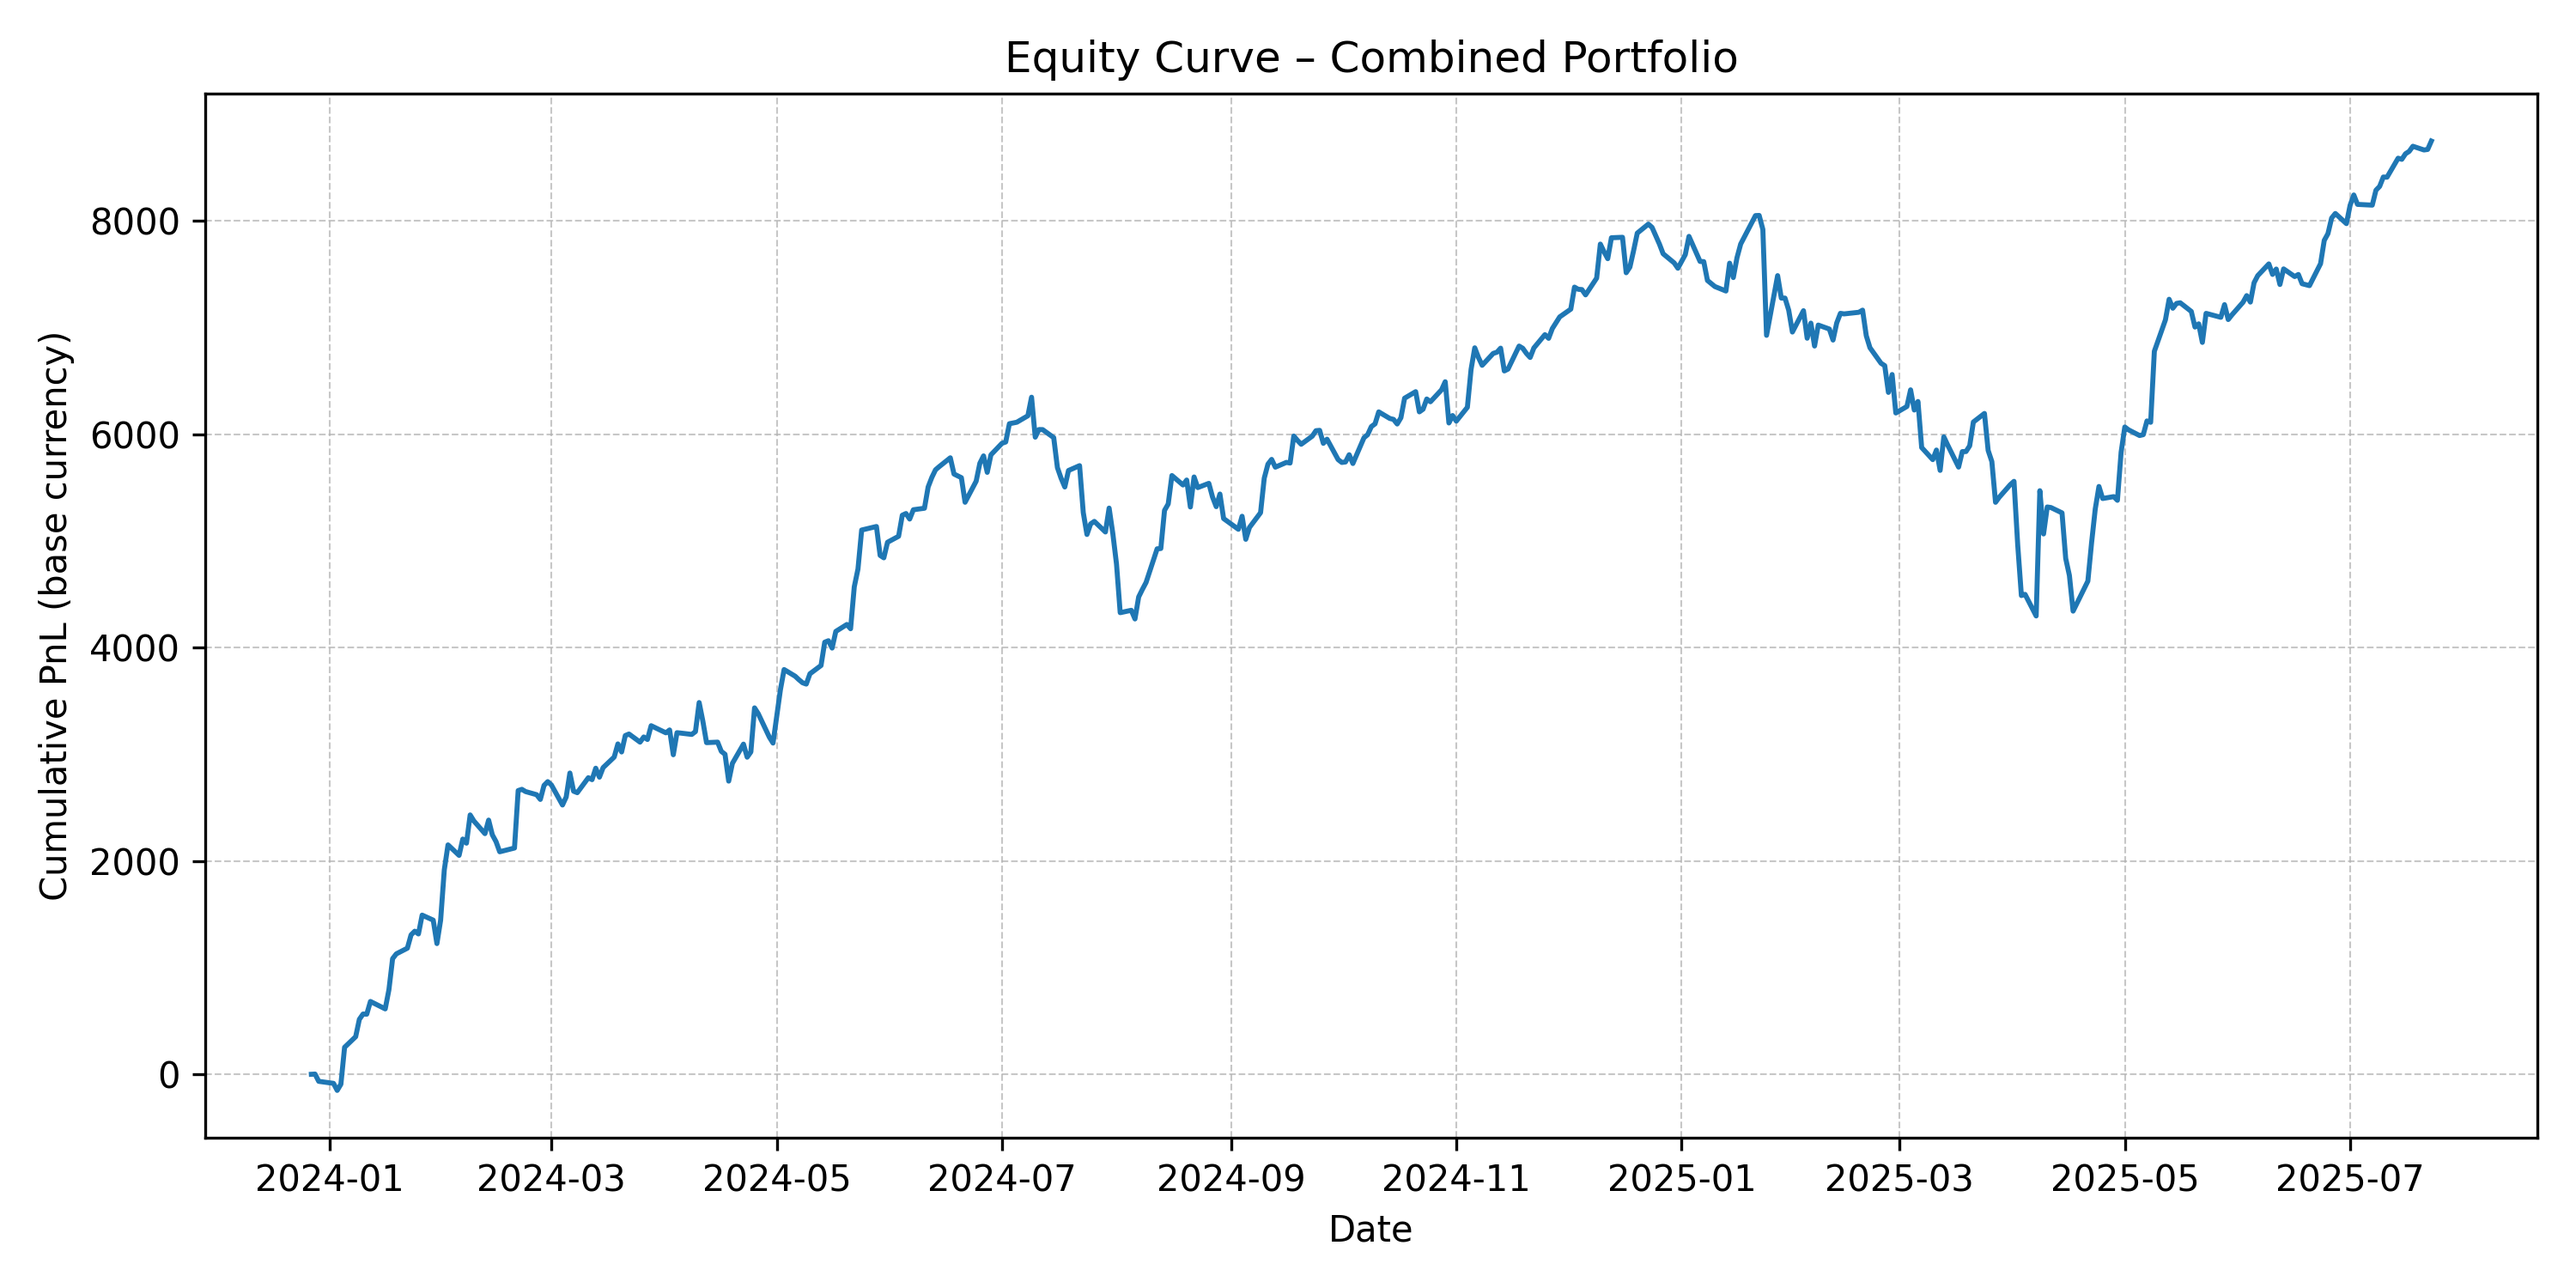
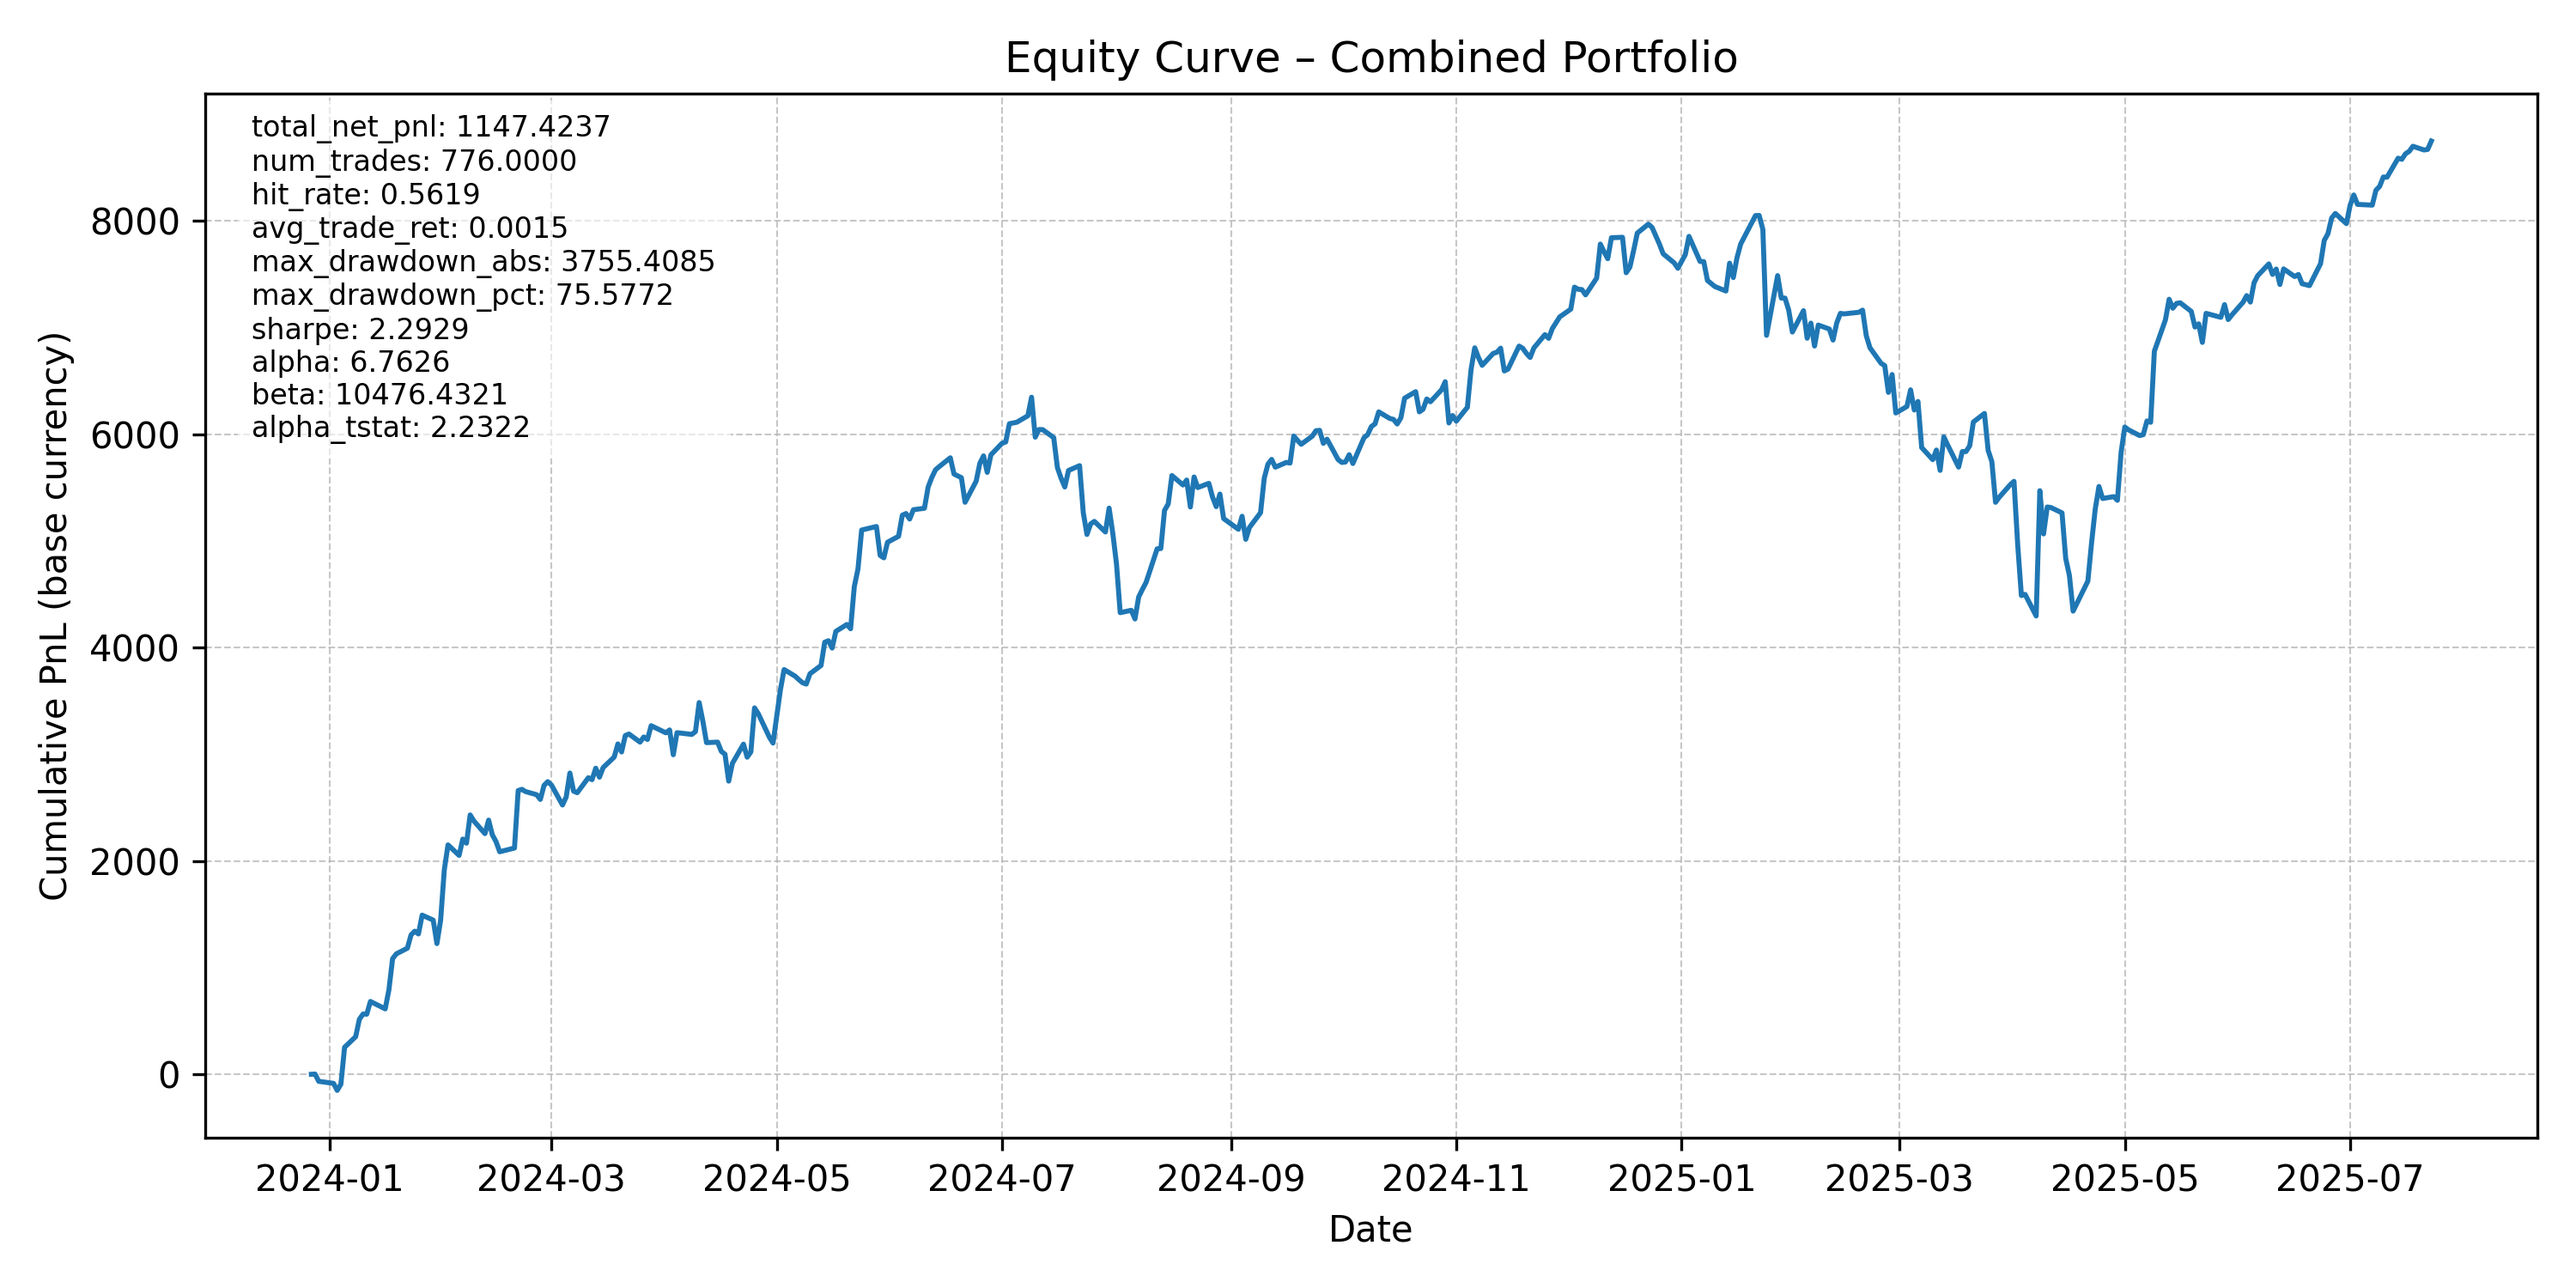
Incorporated and added alpha and beta

Changed region(s): [[0.093, 0.092, 0.279, 0.3373]]

diff --git a/Equity_Factor_Alpha/src/backtest.py b/Equity_Factor_Alpha/src/backtest.py
@@ -37,7 +37,7 @@ import pandas as pd
 import numpy as np
 
 from .config import cfg
-from .metrics import sharpe_ratio, max_drawdown
+from .metrics import sharpe_ratio, max_drawdown, compute_alpha
 
 __all__ = ["run_backtest"]
 
@@ -54,6 +54,8 @@ def run_backtest(
     predictions: pd.Series,
     returns: pd.Series,
     *,
+    benchmark_returns: pd.Series | None = None,
+    risk_free_rate: float | None = None,
     hold_days: int | None = None,
     top_n: int | None = None,
     fee_bps: float | None = None,
@@ -86,6 +88,15 @@ def run_backtest(
         of this as the unit trade size; if ``top_n=2`` you deploy
         ``2×notional`` on day one, then more as positions overlap.
 
+    benchmark_returns : pd.Series, optional
+        Benchmark returns aligned to ``returns``.  If provided, the
+        function computes Jensen’s α, β and the α t‑statistic.
+
+    risk_free_rate : float, optional
+        Per‑period (e.g. daily) risk‑free rate used when computing the
+        Sharpe ratio.  If omitted, defaults to ``backtest.risk_free_rate``
+        from ``params.yaml`` (falls back to 0.0).
+
     Returns
     -------
     dict with keys
@@ -104,6 +115,9 @@ def run_backtest(
     top_n = bt_cfg.get("top_n") if top_n is None else top_n
     fee_bps = bt_cfg.get("fee_bps") if fee_bps is None else fee_bps
     fee_rate = (fee_bps or 0) / 10_000
+    risk_free_rate = (
+        bt_cfg.get("risk_free_rate", 0.0) if risk_free_rate is None else risk_free_rate
+    )
 
     # Ensure predictions and returns align
     if not predictions.index.equals(returns.index):
@@ -169,19 +183,14 @@ def run_backtest(
 
     # Compile trade ledger into DataFrame
     trades_df = pd.DataFrame(trades)
-    if trades_df.empty:
-        metrics = {
-            "total_net_pnl": 0.0,
-            "num_trades": 0,
-            "hit_rate": np.nan,
-            "avg_trade_ret": np.nan,
-            "max_drawdown_abs": 0.0,
-            "max_drawdown_pct": 0.0,
-            "sharpe": np.nan,
-        }
-    else:
+    alpha = beta = alpha_t = np.nan
+    if not trades_df.empty:
         dd_abs, dd_pct = max_drawdown(equity_series)
         equity_diff = equity_series.diff().fillna(0.0)
+        if benchmark_returns is not None:
+            # Align benchmark with portfolio return series
+            bench = benchmark_returns.reindex(equity_diff.index).fillna(0.0)
+            alpha, beta, alpha_t = compute_alpha(equity_diff, bench)
         metrics = {
             "total_net_pnl": trades_df["net_pnl"].sum(),
             "num_trades": len(trades_df),
@@ -189,7 +198,25 @@ def run_backtest(
             "avg_trade_ret": trades_df["gross_ret"].mean(),
             "max_drawdown_abs": float(dd_abs),
             "max_drawdown_pct": float(dd_pct),
-            "sharpe": sharpe_ratio(equity_diff),
+            "sharpe": sharpe_ratio(equity_diff, risk_free_rate=risk_free_rate),
+            "alpha": alpha,
+            "beta": beta,
+            "alpha_tstat": alpha_t,
+        }
+    else:
+        metrics = {
+            "total_net_pnl": 0.0,
+            "num_trades": 0,
+            "hit_rate": np.nan,
+            "avg_trade_ret": np.nan,
+            "max_drawdown_abs": 0.0,
+            "max_drawdown_pct": 0.0,
+            "sharpe": sharpe_ratio(
+                pd.Series(dtype=float), risk_free_rate=risk_free_rate
+            ),
+            "alpha": alpha,
+            "beta": beta,
+            "alpha_tstat": alpha_t,
         }
 
     return {"trades": trades_df, "equity": equity_series, "metrics": metrics}

diff --git a/Equity_Factor_Alpha/src/plotting.py b/Equity_Factor_Alpha/src/plotting.py
@@ -26,8 +26,9 @@ from typing import Any
 
 import pandas as pd
 import matplotlib.pyplot as plt
+import numpy as np
 
-__all__ = ["plot_equity"]
+__all__ = ["plot_equity", "plot_returns_vs_benchmark"]
 
 
 def _ensure_series(obj: pd.Series | pd.DataFrame) -> pd.Series:
@@ -49,6 +50,7 @@ def plot_equity(
     figsize: tuple[int, int] = (10, 5),
     show: bool = True,
     save_path: str | Path | None = None,
+    metrics: dict[str, float] | None = None,
 ) -> plt.Axes:
     """
     Plot an equity curve with sensible defaults.
@@ -68,6 +70,8 @@ def plot_equity(
     save_path
         If given, save the figure (filetype inferred from suffix).  PNG is
         recommended for light file sizes.
+    metrics
+        Optional dictionary of metric names and values to display on the plot.
 
     Returns
     -------
@@ -87,8 +91,78 @@ def plot_equity(
     ax.set_xlabel("Date")
     ax.set_ylabel("Cumulative PnL (base currency)")
     ax.grid(True, linestyle="--", linewidth=0.5, alpha=0.7)
+    if metrics is not None:
+        text = "\n".join(f"{k}: {v:.4f}" for k, v in metrics.items() if pd.notna(v))
+        ax.text(
+            0.02,
+            0.98,
+            text,
+            transform=ax.transAxes,
+            va="top",
+            ha="left",
+            fontsize=8,
+            bbox=dict(facecolor="white", alpha=0.6, edgecolor="none"),
+        )
     if created_fig:
         fig.tight_layout()
+    if save_path is not None:
+        Path(save_path).parent.mkdir(parents=True, exist_ok=True)
+        plt.savefig(save_path, dpi=300)
+    if show:
+        plt.show()
+    return ax
+
+
+def plot_returns_vs_benchmark(
+    strategy: pd.Series,
+    benchmark: pd.Series,
+    *,
+    alpha: float | None = None,
+    beta: float | None = None,
+    ax: Any | None = None,
+    figsize: tuple[int, int] = (6, 6),
+    show: bool = True,
+    save_path: str | Path | None = None,
+) -> plt.Axes:
+    """
+    Scatter plot of strategy versus benchmark returns.
+
+    Parameters
+    ----------
+    strategy, benchmark
+        Synchronous periodic returns; will be aligned on their indices.
+    alpha, beta
+        Pre‑computed regression coefficients to annotate (optional).
+    """
+    s, b = pd.Series(strategy).align(pd.Series(benchmark), join="inner")
+    if ax is None:
+        fig, ax = plt.subplots(figsize=figsize)
+    ax.scatter(b, s, s=10, alpha=0.6)
+    # Fit line
+    if len(s) >= 2:
+        m, c = np.polyfit(b, s, 1)
+        xs = np.linspace(b.min(), b.max(), 100)
+        ax.plot(xs, m * xs + c, linewidth=1.2)
+    ax.set_xlabel("Benchmark returns")
+    ax.set_ylabel("Strategy returns")
+    ax.set_title("Strategy vs Benchmark – α/β")
+    ann = []
+    if alpha is not None and pd.notna(alpha):
+        ann.append(f"α = {alpha:.4f}")
+    if beta is not None and pd.notna(beta):
+        ann.append(f"β = {beta:.2f}")
+    if ann:
+        ax.text(
+            0.05,
+            0.95,
+            "\n".join(ann),
+            transform=ax.transAxes,
+            va="top",
+            ha="left",
+            fontsize=9,
+            bbox=dict(facecolor="white", alpha=0.6, edgecolor="none"),
+        )
+    ax.grid(True, linestyle="--", linewidth=0.5, alpha=0.7)
     if save_path is not None:
         Path(save_path).parent.mkdir(parents=True, exist_ok=True)
         plt.savefig(save_path, dpi=300)

diff --git a/Equity_Factor_Alpha/run_efa.py b/Equity_Factor_Alpha/run_efa.py
@@ -56,7 +56,7 @@ from src.data_loader import get_all_equities
 from src.features import add_returns, add_rolling_features, prepare_feature_matrix
 from src.model import train_model, predict
 from src.backtest import run_backtest
-from src.plotting import plot_equity
+from src.plotting import plot_equity, plot_returns_vs_benchmark
 
 # ---------------------------------------------------------------------------
 logging.basicConfig(
@@ -139,6 +139,9 @@ def main(args: argparse.Namespace) -> None:
         return_col=p["features"]["return_col"],
     )
 
+    # Equal‑weight average return across all tickers serves as a benchmark
+    benchmark = y.groupby(level=0).mean()
+
     # Train model
     logger.info("Training XGBoost model…")
     model, rmse = train_model(X, y, params=p["model"], test_size=0.2)
@@ -155,6 +158,8 @@ def main(args: argparse.Namespace) -> None:
     results = run_backtest(
         predictions=preds,
         returns=y,
+        benchmark_returns=benchmark,
+        risk_free_rate=p["backtest"].get("risk_free_rate", 0.0),
         hold_days=p["backtest"]["hold_days"],
         top_n=p["backtest"]["top_n"],
         fee_bps=p["backtest"]["fee_bps"],
@@ -164,6 +169,13 @@ def main(args: argparse.Namespace) -> None:
     trades = results["trades"]
     metrics = results["metrics"]
     logger.info("Back‑test metrics: %s", metrics)
+    logger.info(
+        "Alpha %.4f (t=%.2f) | Beta %.2f | Sharpe %.2f",
+        metrics["alpha"],
+        metrics["alpha_tstat"],
+        metrics["beta"],
+        metrics["sharpe"],
+    )
 
     # Save results
     out_dir = Path(p["paths"]["outputs"])
@@ -179,6 +191,17 @@ def main(args: argparse.Namespace) -> None:
             title="Equity Curve – Combined Portfolio",
             show=args.show_plots,
             save_path=save_path,
+            metrics=metrics,
+        )
+    if args.show_plots or args.save_plots:
+        scatter_path = (out_dir / "alpha_beta_scatter.png") if args.save_plots else None
+        plot_returns_vs_benchmark(
+            equity.diff().dropna(),
+            benchmark.reindex(equity.index).fillna(0.0),
+            alpha=metrics["alpha"],
+            beta=metrics["beta"],
+            show=args.show_plots,
+            save_path=scatter_path,
         )
     logger.info("Finished – results saved to %s", out_dir.resolve())
 

diff --git a/Equity_Factor_Alpha/src/metrics.py b/Equity_Factor_Alpha/src/metrics.py
@@ -19,8 +19,9 @@ from typing import Tuple, Union
 
 import numpy as np
 import pandas as pd
+import statsmodels.api as sm
 
-__all__ = ["sharpe_ratio", "max_drawdown"]
+__all__ = ["sharpe_ratio", "max_drawdown", "compute_alpha"]
 
 
 def _infer_periods_per_year(idx: pd.Index) -> float:
@@ -101,3 +102,40 @@ def max_drawdown(equity: Union[pd.Series, np.ndarray]) -> Tuple[float, float]:
     abs_dd = underwater.max()
     pct_dd = pct_under.max()
     return float(abs_dd), float(0.0 if pd.isna(pct_dd) else pct_dd)
+
+
+def compute_alpha(
+    portfolio_returns: Union[pd.Series, np.ndarray],
+    benchmark_returns: Union[pd.Series, np.ndarray],
+) -> Tuple[float, float, float]:
+    """
+    Estimate Jensen’s α and β by regressing portfolio returns on a benchmark.
+
+    Parameters
+    ----------
+    portfolio_returns : pd.Series or 1‑D np.ndarray
+        Periodic arithmetic returns of the strategy.
+    benchmark_returns : pd.Series or 1‑D np.ndarray
+        Synchronous benchmark returns (e.g. a morally‑compliant equity index).
+
+    Returns
+    -------
+    (alpha, beta, alpha_t) : tuple[float, float, float]
+        alpha      – intercept of the regression (Jensen’s α) per period.
+        beta       – slope versus the benchmark.
+        alpha_t    – t‑statistic of the α coefficient.
+    """
+    # Ensure aligned pandas Series
+    p = pd.Series(portfolio_returns).dropna()
+    b = pd.Series(benchmark_returns).dropna()
+    p, b = p.align(b, join="inner")
+    if p.empty:
+        return np.nan, np.nan, np.nan
+
+    X = sm.add_constant(b)  # adds intercept
+    model = sm.OLS(p, X).fit()
+
+    alpha = float(model.params["const"])
+    beta = float(model.params.iloc[1])
+    alpha_t = float(model.tvalues["const"])
+    return alpha, beta, alpha_t
